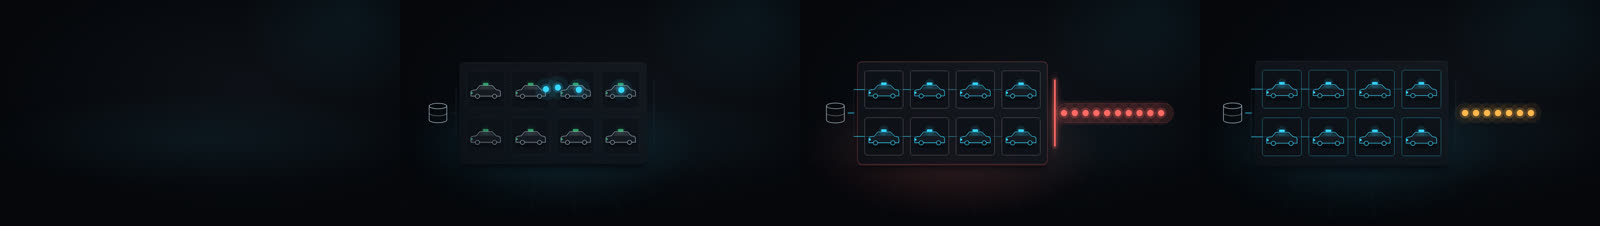
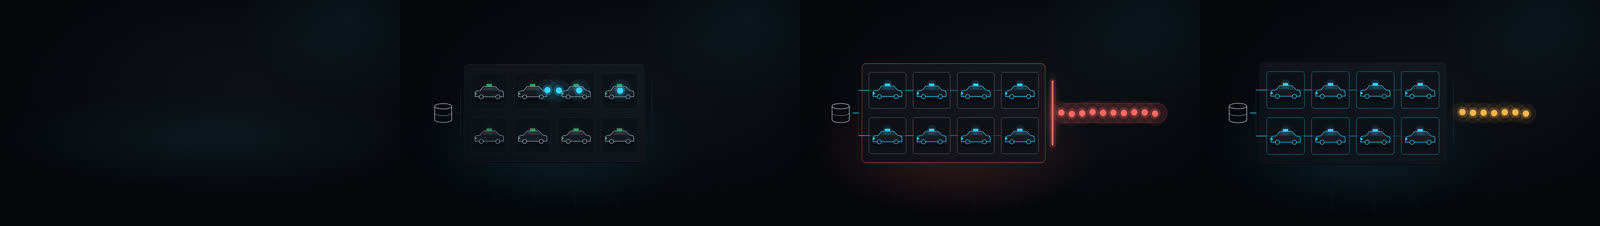
P7 dom-c: ConnPoolTaxi finished (removed an always-empty seed guard, seeded arc/lane jitter; snap PASS det 0 qa 0, baselines pending-critic; perf lite 0.071 / standard 0.086 / hero 0.102 box s/frame; Arabic QA n/a, no copy)
Claude-Session: https://claude.ai/code/session_01VrU9wxU8GmuhdhWAAHnnQ8

diff --git a/studio/src/components/ConnPoolTaxi/ConnPoolTaxi.tsx b/studio/src/components/ConnPoolTaxi/ConnPoolTaxi.tsx
@@ -11,6 +11,7 @@
 //     closes up (morph timing).
 // DOM-free SVG (standard tier; no WebGL, no per-frame filter).
 import React from 'react';
+import {random} from 'remotion';
 import {C} from '../../tokens';
 import {hex} from '../../fx/look';
 import type {DcComponent, DcProps, LayerCtx} from '../../spec/types';
@@ -108,7 +109,6 @@ const rankPanel = (col: string, k: number): React.CSSProperties => ({
 });
 
 export const ConnPoolTaxiView: React.FC<DcProps<Props>> = ({props, ctx}) => {
-  if (props.seed >= 0) return <div />;
   const t = ctx.frame;
   const P = pf(ctx);
   const sim = poolSim(props, ctx);
@@ -205,7 +205,7 @@ export const ConnPoolTaxiView: React.FC<DcProps<Props>> = ({props, ctx}) => {
       const from = sim.born[i] >= tb - travel ? [laneR, qY] : [qx, qY];
       const q = clamp01(prog(ctx, tb - travel, travel));
       const x = from[0] + (bx - from[0]) * q;
-      const y = from[1] + (by - from[1]) * q - Math.sin(q * Math.PI) * bayH * 0.25;
+      const y = from[1] + (by - from[1]) * q - Math.sin(q * Math.PI) * bayH * (0.18 + 0.14 * random(`cpt-arc-${props.seed}-${i}`));
       els.push(<Dot key={`r${i}`} x={x} y={y} r={dotR} color={C.signal} k={1} />);
       continue;
     }
@@ -213,7 +213,7 @@ export const ConnPoolTaxiView: React.FC<DcProps<Props>> = ({props, ctx}) => {
     const e = prog(ctx, sim.born[i], P.arrive);
     const x = laneR + (qx - laneR) * e + (critK > 0 ? qShake : 0);
     const col = mix(C.warn, C.crit, critK);
-    els.push(<Dot key={`r${i}`} x={x} y={qY} r={dotR} color={col} k={0.6 + 0.6 * critK} />);
+    els.push(<Dot key={`r${i}`} x={x} y={qY + (random(`cpt-lane-${props.seed}-${i}`) - 0.5) * dotR * 0.7} r={dotR} color={col} k={0.6 + 0.6 * critK} />);
   }
   // exhausted halo over the queue
   if (critK > 0) {
